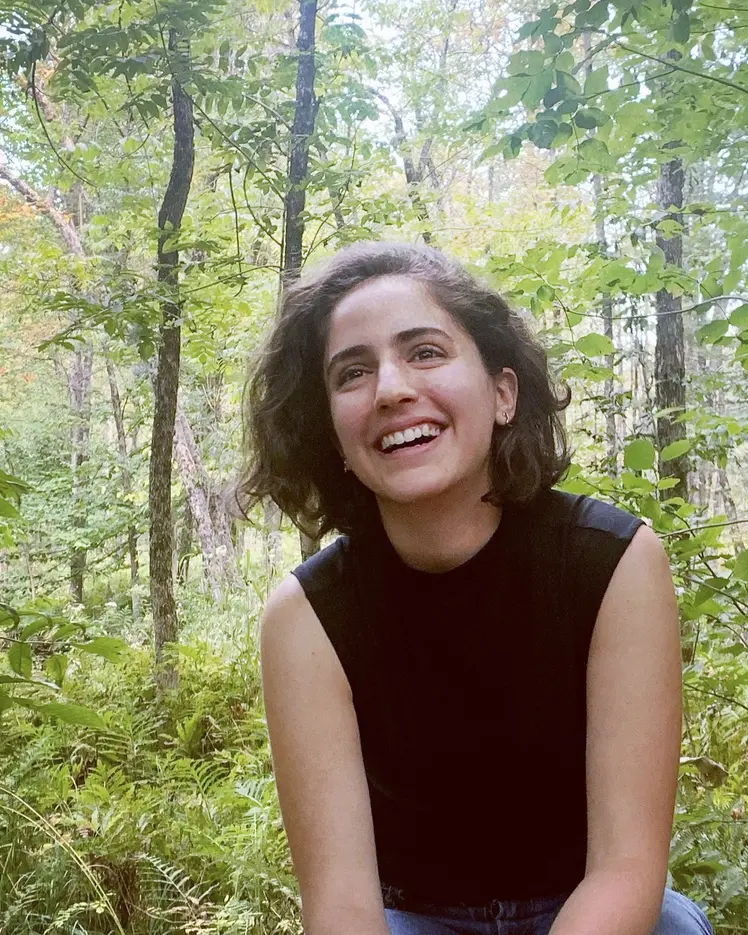
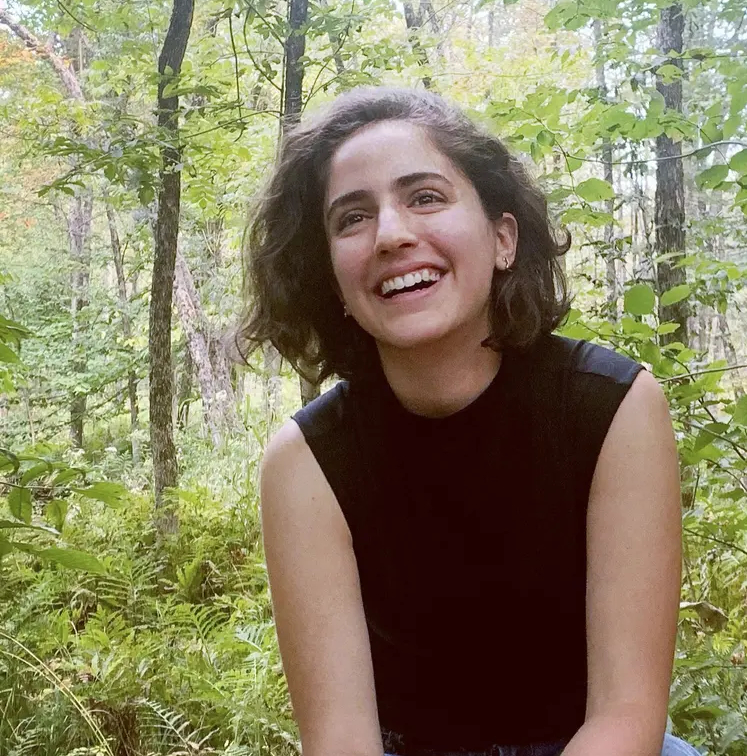
update

diff --git a/_sass/main.scss b/_sass/main.scss
@@ -8,6 +8,21 @@ html, body {
   color: #363636 !important;
 }
 
+:root {
+  color-scheme: light;
+}
+
+@media (prefers-color-scheme: dark) {
+  :root {
+    color-scheme: light;
+  }
+
+  html, body {
+    background-color: #E8F4FD !important;
+    color: #363636 !important;
+  }
+}
+
 nav.navbar {
   background-color: #E8F4FD !important;
 
@@ -18,6 +33,19 @@ nav.navbar {
 
 .title, .subtitle, h1, h2, h3, h4, h5, h6 {
   color: #363636 !important;
+}
+
+.footer {
+  background-color: #E8F4FD !important;
+  color: #363636 !important;
+
+  a {
+    color: #1f36a0 !important;
+  }
+
+  .content {
+    color: inherit !important;
+  }
 }
 
 .hero {
@@ -42,11 +70,23 @@ nav.navbar {
   text-shadow: 2px 2px 8px rgba(0, 0, 0, 0.8);
 }
 
+
 .card {
-  background-color: #D6EAF8 !important;
+  background-color: #c8e3f8 !important;
   color: #363636 !important;
 
   .title, .subtitle {
     color: #363636 !important;
   }
+}
+
+.team-links {
+  margin-top: -0.6rem !important;
+  margin-bottom: 0 !important;
+  padding-top: 0 !important;
+}
+
+.hero.is-medium .hero-body {
+  padding-top: 9rem;   // decrease these numbers to shrink height
+  padding-bottom: 9rem;
 }

diff --git a/_layouts/main.html b/_layouts/main.html
@@ -3,12 +3,13 @@
   <head>
     <meta charset="utf-8">
     <meta name="viewport" content="width=device-width, initial-scale=1">
+    <meta name="color-scheme" content="light">
     <title>{{ page.title }}</title>
-    <link rel="stylesheet" href="/assets/css/styles.css">
     <link
       rel="stylesheet"
       href="https://cdn.jsdelivr.net/npm/bulma@1.0.2/css/bulma.min.css"
     >
+    <link rel="stylesheet" href="/assets/css/styles.css">
     <link
       rel="stylesheet"
       href="https://cdn.rawgit.com/jpswalsh/academicons/master/css/academicons.min.css"

diff --git a/_includes/event.html b/_includes/event.html
@@ -1,7 +1,8 @@
 <div class="content">
   <h4>{{ event.name | markdownify }}</h4>
   {% if event.presenter %}
-    <p class="is-size-6"><strong style="color: #363636;">{{ event.presenter }}</strong></p>
+    {% assign presenter_html = event.presenter | markdownify | replace: "<p>", "" | replace: "</p>", "" %}
+    <p class="is-size-6"><strong style="color: #363636;">{{ presenter_html }}</strong></p>
   {% endif %}
   <span class="icon">
     <i class="fa-regular fa-calendar"></i>

diff --git a/_includes/team-card.html b/_includes/team-card.html
@@ -18,7 +18,7 @@
             <p class="subtitle is-5">{{ person.affiliation }}</p>
           </div>
         </div>
-        <div class="content">
+        <div class="content team-links">
           {% if person.bio %}
             <p>{{ person.bio }}</p>
           {% endif %}

diff --git a/index.md b/index.md
@@ -2,12 +2,13 @@
 layout: home
 title: Home
 ---
-We are excited to officially announce the launch of <strong style="color: black;">AI Mat</strong>*, a new reading group dedicated to discuss research at the intersection of machine learning and materials science! 
+We are excited to officially announce the launch of <strong style="color: currentColor;">AI Mat</strong>*, a new reading group dedicated to discuss research at the intersection of machine learning and materials science! 
 
 This reading group will combine presentations of relevant papers by Mila members, as well as occasional talks by invited speakers. We aim to cover machine learning research for materials discovery, such as predictive models for material properties, machine learning interatomic potentials (MLIP), geometric machine learning, generative models of crystals, active learning for scientific discovery, as well as research in physics, chemistry and materials science relevant for the machine learning community. Therefore, this reading group strives to create an interdisciplinary space for discussion and learning.
 
 The reading group will take place biweekly on Wednesdays, at 2 pm, in room J09 at Mila (unless otherwise specified), and remotely via Zoom.
 
-**\*** *The name AI Mat (discussing AI for Materials research on a mat!) was inspired by **RL Sofa**, another reading group at Mila focusing on reinforcement learning.* 😊 
 
 The AI Mat Reading Group follows the [Berlin Code of Conduct](https://berlincodeofconduct.org/en).
+
+<span style="font-weight: 700;">*</span> <em>The name AI Mat (discussing AI for Materials research on a mat!) was inspired by <strong style="font-weight: 700; color: currentColor;">RL Sofa</strong>, another reading group at Mila focusing on reinforcement learning.</em> 🙂 

diff --git a/_pages/about.md b/_pages/about.md
@@ -3,7 +3,7 @@ layout: page
 title: About us
 permalink: /about
 ---
-We are a group of students, postdocs, professors and research scientists at Mila interested in educating ourselves and the wider community at our organisation about the interconnection between science, technology and society.
+We are a group of students, postdocs, professors and research scientists at Mila united by a shared enthusiasm for applying AI to accelerate materials discovery and design. We believe that machine learning has the potential to transform how we find and develop new materials: from next-generation semiconductors and battery technologies to catalysts for carbon capture and materials for climate change mitigation. Through regular discussions, paper presentations and invited talks, we aim to build expertise at the intersection of machine learning and the physical sciences.
 
 These are some of the folks co-organising the reading group, in random order:
 
